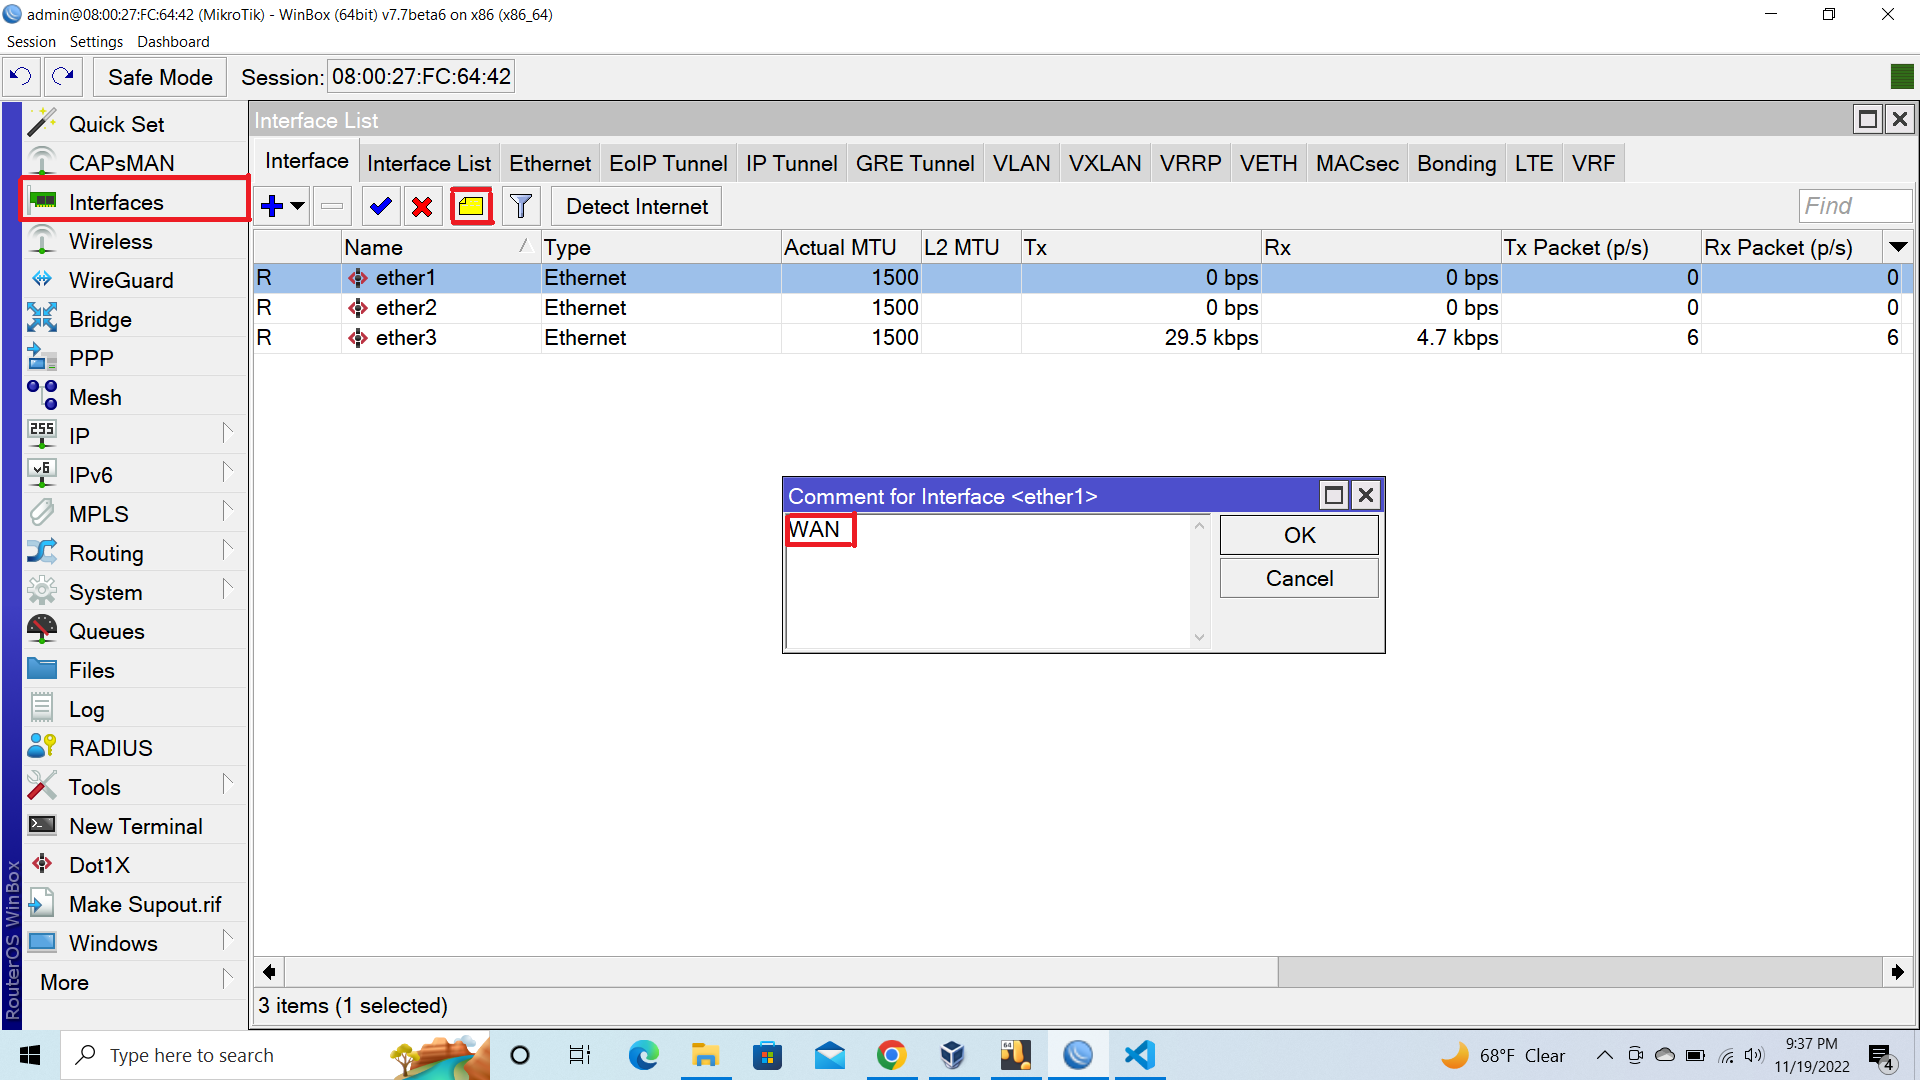
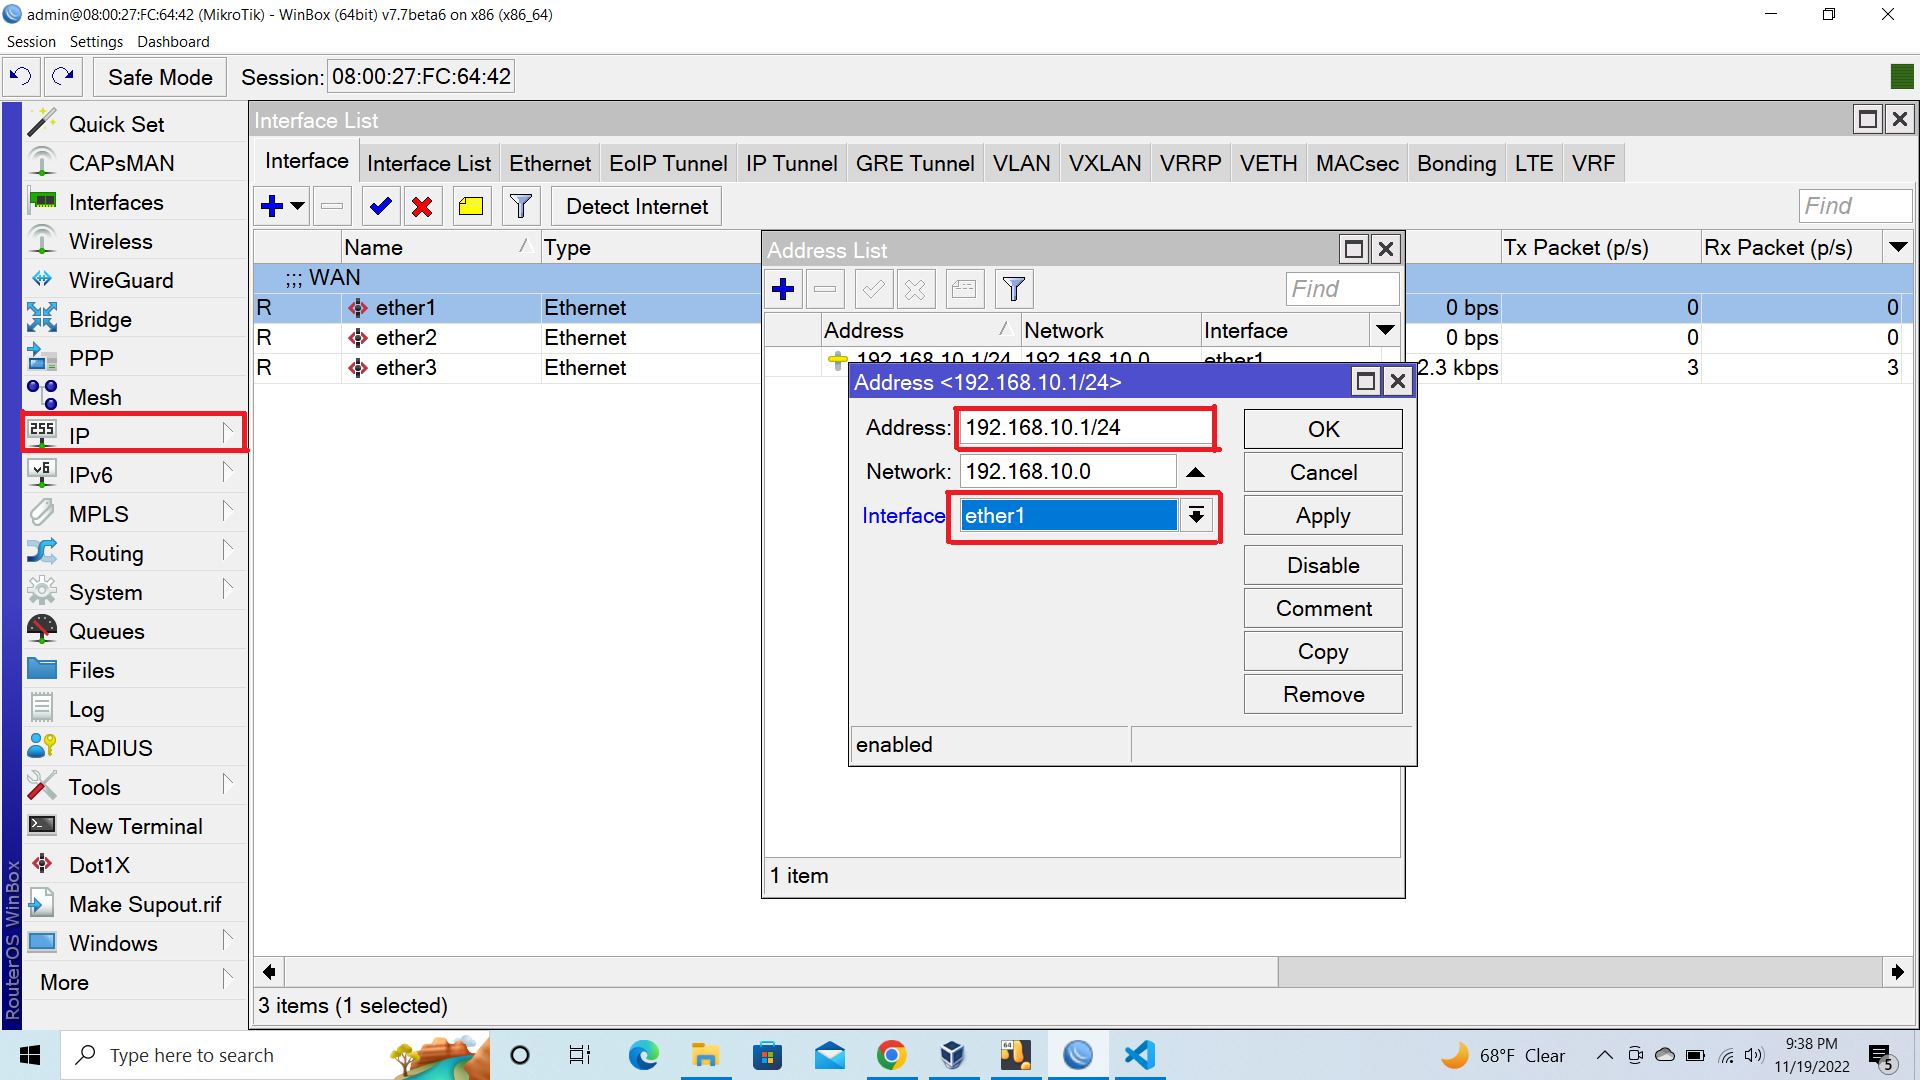
mody

diff --git a/README.md b/README.md
@@ -56,14 +56,14 @@ Advanced_Networkin Advanced-Python
 
 #### 1.Goto Interfaces Then Comment WAN
 
-<img src="img/Day2.png">
+<img src="img/day1.png">
 
 #### 2. IP > Addreses click "+" Icon Then Assign Network Ip Address With Subnet Mask That Provide From ISP Select Interface (WAN) Then Click Ok
-<img src="img/Dyn2.png">
+<img src="img/day2.png">
 
 #### 3. Ip > Route Set DST. Adreses 0.0.0.0./0 Set The GateWay Provide From ISP It's Default   8.8.8.8 
 
-<img src="img/Dyn3.png">
+<img src="img/day3.png">
 
 
 
